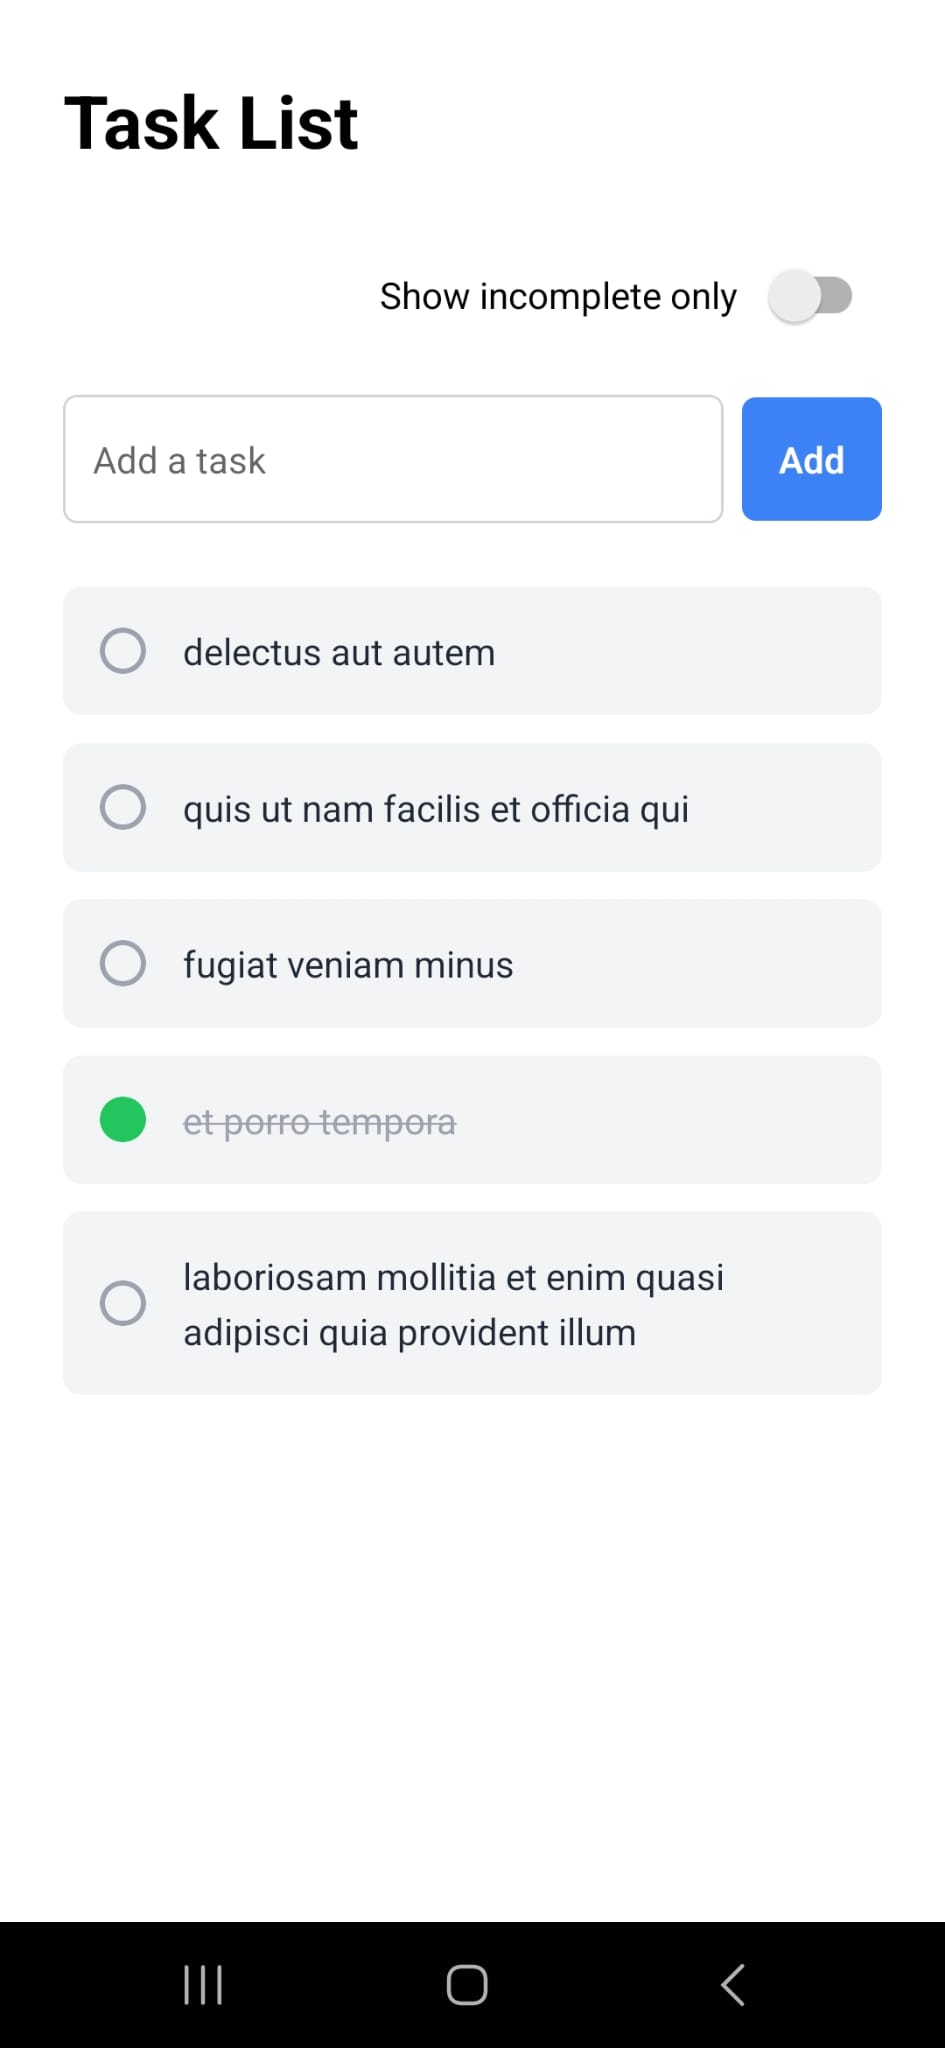
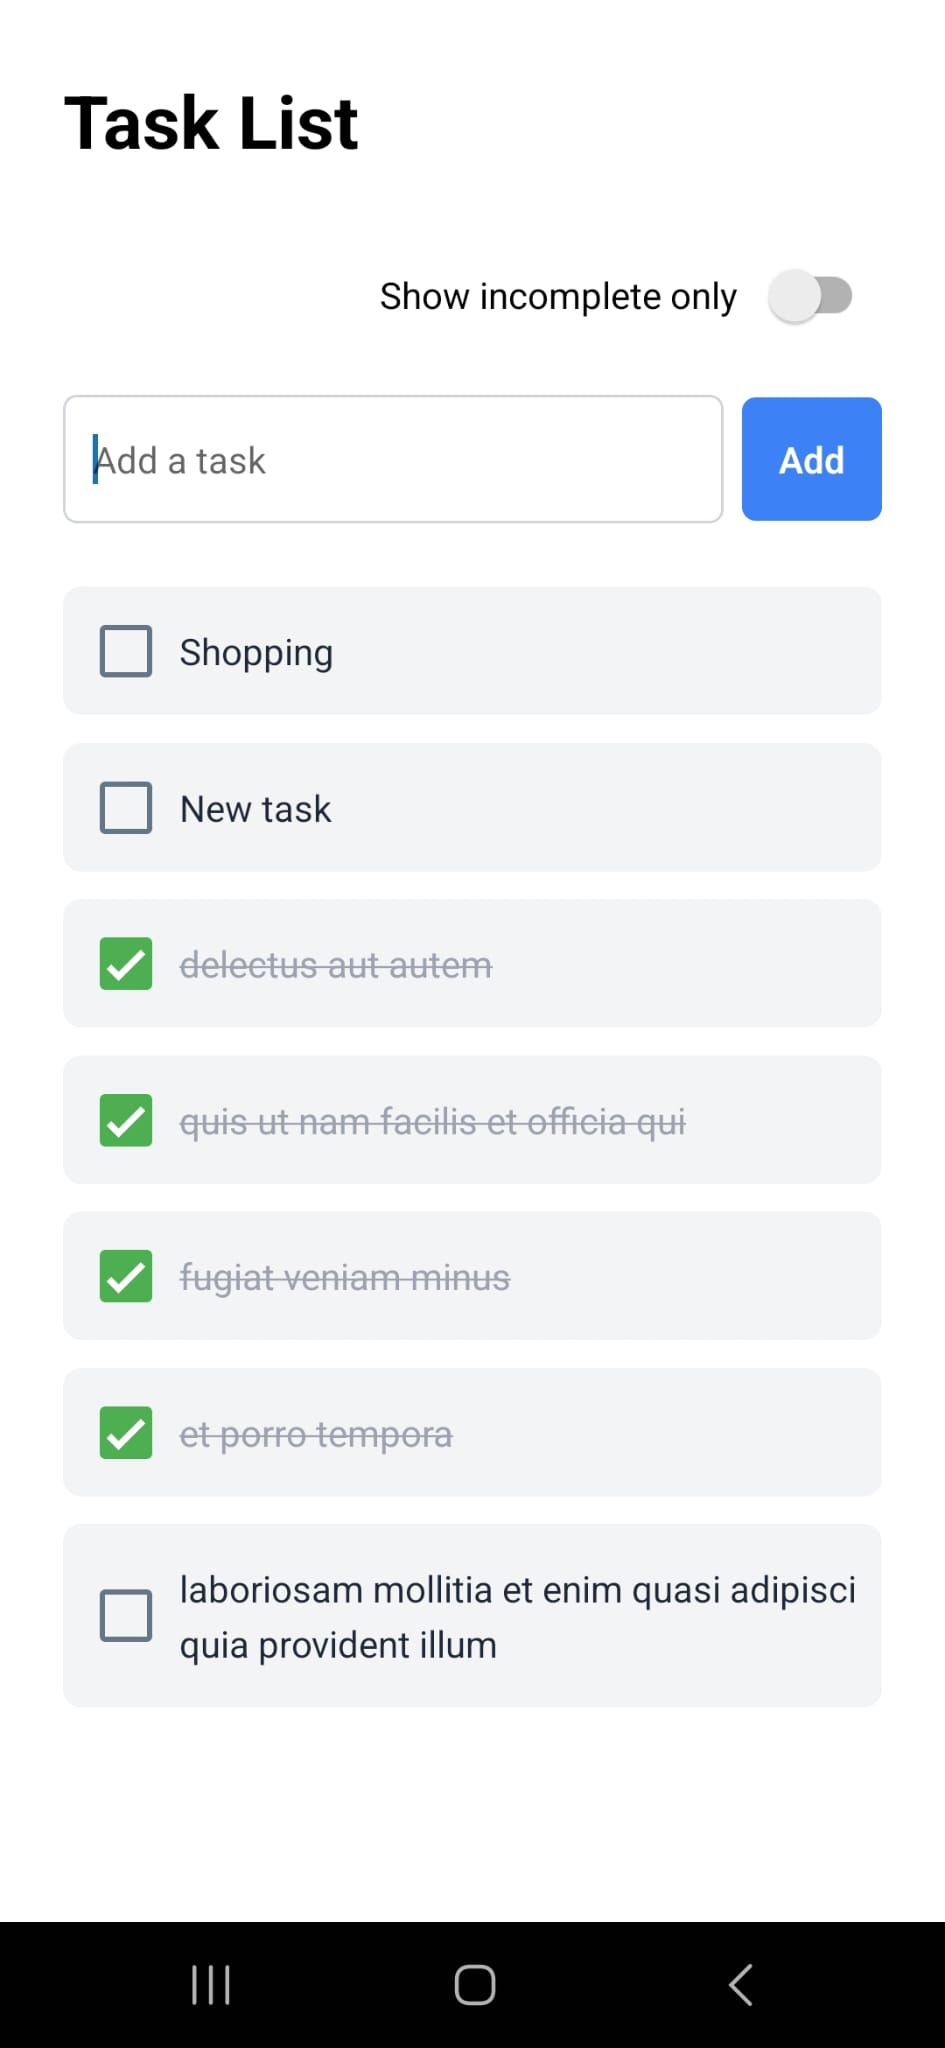
used expo-checkbox

diff --git a/app/components/TaskItem.tsx b/app/components/TaskItem.tsx
@@ -1,39 +1,30 @@
-import React from "react";
-import { View, Text, TouchableOpacity } from "react-native";
+import React from 'react';
+import { View, Text } from 'react-native';
+import Checkbox from 'expo-checkbox';
 
-export type TaskItemProps = {
+type TaskItemProps = {
   id: string;
   description: string;
   isComplete: boolean;
   toggleComplete: (id: string) => void;
 };
 
-const TaskItem: React.FC<TaskItemProps> = ({
-  id,
-  description,
-  isComplete,
-  toggleComplete,
-}) => {
+const TaskItem: React.FC<TaskItemProps> = ({ id, description, isComplete, toggleComplete }) => {
   return (
-    <TouchableOpacity
-      onPress={() => toggleComplete(id)}
-      className="flex-row items-center bg-gray-100 rounded-lg p-4 mb-3 pr-1.5"
-    >
-      <View
-        className={`w-5 h-5 mr-4 rounded-full border-2 ${
-          isComplete ? "bg-green-500 border-green-500" : "border-gray-400"
-        }`}
-      />
-      <View className="flex-1 pr-2">
+      <View className="flex-row items-center p-4 mb-3 bg-gray-100 rounded-lg">
+        <Checkbox
+            value={isComplete}
+            onValueChange={() => toggleComplete(id)}
+            color={isComplete ? '#4caf50' : undefined}
+        />
         <Text
-          className={`text-base ${
-            isComplete ? "line-through text-gray-400" : "text-gray-800"
-          }`}
+            className={`ml-3 text-base ${
+                isComplete ? 'line-through text-gray-400' : 'text-gray-800'
+            }`}
         >
           {description}
         </Text>
       </View>
-    </TouchableOpacity>
   );
 };
 

diff --git a/app/__tests__/index.test.tsx b/app/__tests__/index.test.tsx
@@ -37,15 +37,17 @@ describe("Index (Task List screen)", () => {
   });
 
   it("hides completed task when switched to incomplete-only mode", async () => {
-    const { getByText, getByRole, queryByText } = render(<Index />);
+    const { getByText, getByRole, getAllByRole, queryByText } = render(<Index />);
 
-    const task = await waitFor(() => getByText("Mock Task 1"));
-    fireEvent.press(task);
+    await waitFor(() => getByText("Mock Task 1"));
+
+    const checkboxes = getAllByRole("checkbox");
+    fireEvent(checkboxes[0], "valueChange", true); // mark task complete
 
     const switchToggle = getByRole("switch");
-    fireEvent(switchToggle, "valueChange", true);
+    fireEvent(switchToggle, "valueChange", true); // filter incomplete only
 
-    expect(queryByText("Mock Task 1")).toBeNull();
+    expect(queryByText("Mock Task 1")).toBeNull(); // should now be hidden
   });
 
   it('shows "No remaining tasks" when no incomplete tasks', async () => {
